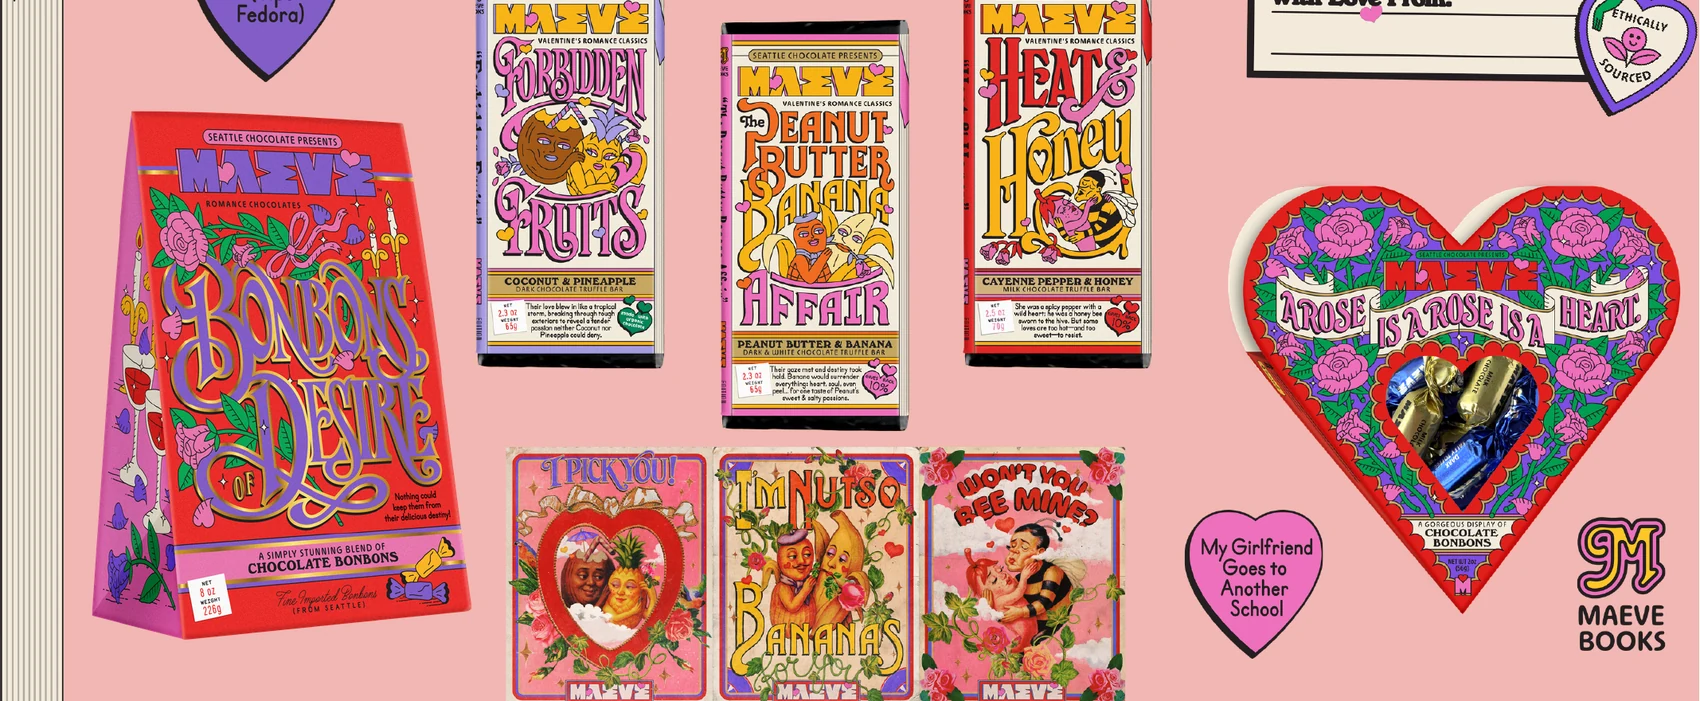
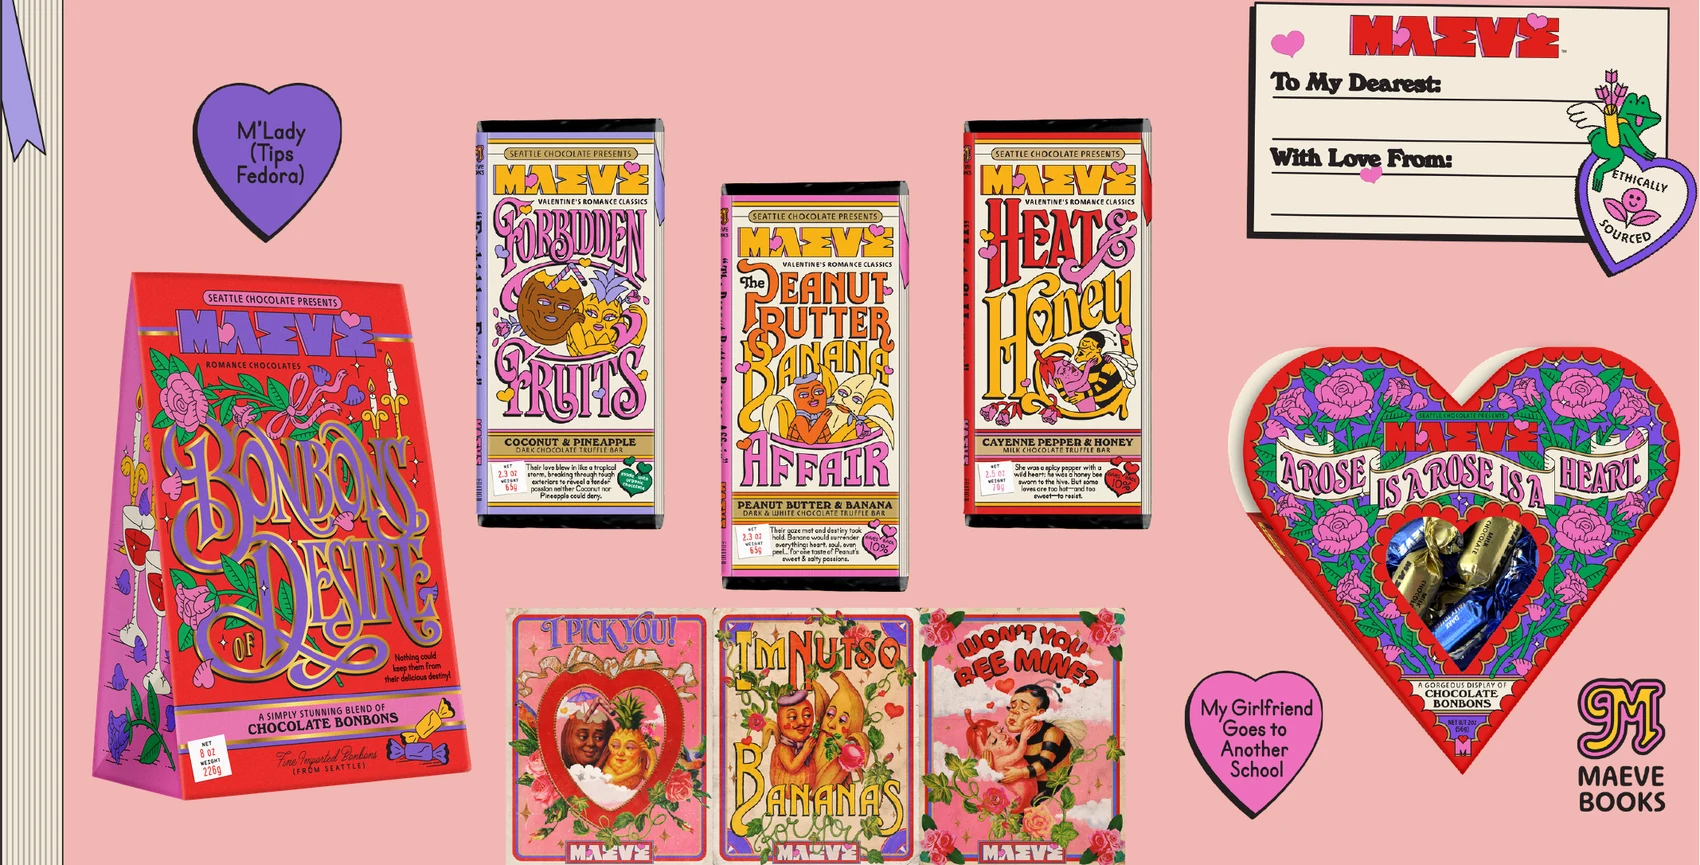
Valentine's: correct the rose orientation and stop cropping her lineup
The rose had an extra mirror. Comparing all four orientations against a 150dpi
render of her band settles it: plain rotate(90) is the match — bloom top-right,
stem descending to the lower left. What I shipped was rotate(90)+mirror, which
put the stem's tip on the wrong side. My earlier "two candidates" were the same
transform written two ways (rot90ccw+mirror and rot90cw+flipV are both a
transpose), so the real alternative never actually got tested.

The lineup was cropped too tight at both ends: the postcard and the M'Lady heart
lost their tops, and the striped book down the left edge — which frames the
whole scene — stopped short of the bottom. It now runs her full band, y 348 to
638, so the book reaches the floor and nothing is clipped.

Getting there needed her "CHOCOLATE IS LOVE" out of the crop without losing what
sits beside it. Colour-keying was no use — the heading violet and the heart's
purple are the same value (#825dc6 vs #825dc7) — but a coordinate grid over the
region shows the heading ends at y 365 and the heart starts at 368, and the
heading never reaches past x 410 while the postcard starts at 430. So only the
heading's last rows are painted back to blush, in a box that touches nothing
else.

diff --git a/src/components/sections/Collections.tsx b/src/components/sections/Collections.tsx
@@ -321,7 +321,7 @@ export function Collections({ title, intro, items, tone, crossLink }: Props) {
               src={current.showcase.src}
               alt={current.showcase.alt}
               width={1700}
-              height={701}
+              height={865}
               loading="eager"
               className="relative mt-6 block h-auto w-[calc(100%+3rem)] max-w-none -translate-x-6 sm:w-[calc(100%+7rem)] sm:-translate-x-14"
             />
